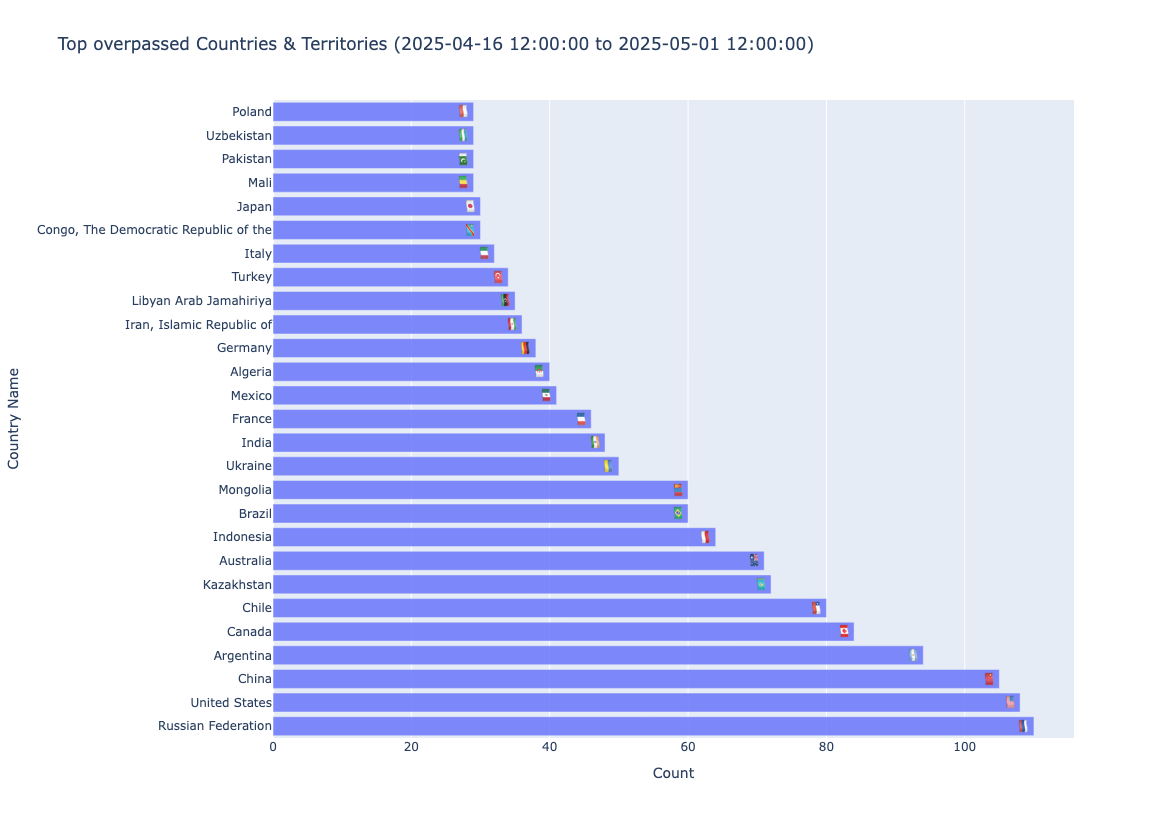
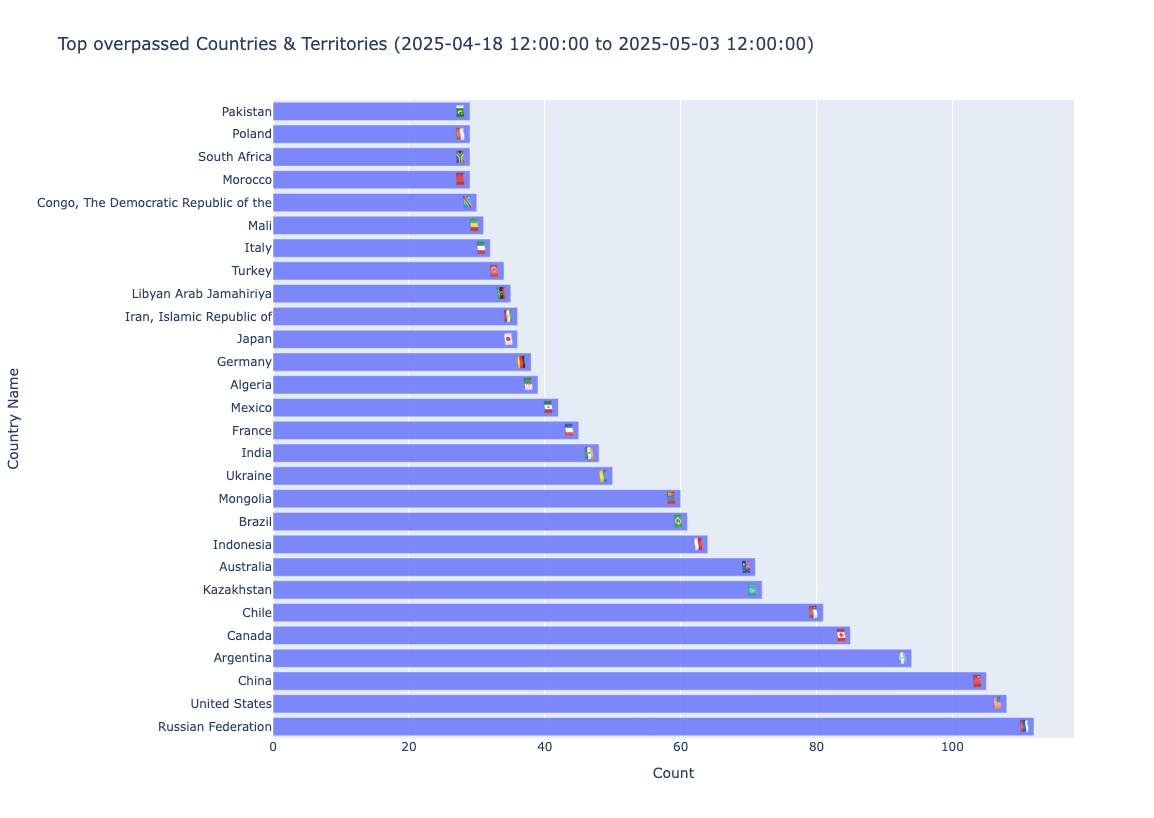
New figures and comments

Changed region(s): [[0.0312, 0.1222, 0.9047, 0.9169]]

diff --git a/year2025/poster/README.md b/year2025/poster/README.md
@@ -51,7 +51,7 @@ passes over places between latitudes 52 degrees south and
 52 degrees north at different times of the day. 
 It is possible to know the future planar position of ISS. 
 We write a standalone Python application that determines such 
-future positions (over a 14-day period) and performs data analytics. 
+future positions (over a 15-day period) and performs data analytics. 
 The tool also focuses on any individual ISS orbit to gather weather 
 conditions along ISS’ path and perform various visualizations.
 This application can complement the NASA’s Spot the station initiative and can serve as an educational tool.
@@ -82,8 +82,8 @@ to obtain future ISS positions and do various data manipulations and visualizati
 
 ```mermaid
 flowchart TB
-    A[Do web scraping to extract future ISS positions: every 4 minutes over 14 days] --> B[Convert x/y positions into latitudes/longitudes]
-    B --> C[Identify orbits and time interpolate every 10 seconds on each orbit]
+    A[Do web scraping to extract future ISS positions (ephemeris): every 4 minutes over 15 days] --> B[Convert x/y positions into latitudes/longitudes]
+    B --> C[Identify orbits and time interpolate every 5 seconds on each orbit]
     C --> D[Determine country name of each location]
     D --> F[Perform data analytics]
     F --> G[Select a random orbit: do web scraping to get weather data and visualization.]
@@ -91,30 +91,17 @@ flowchart TB
 
 It takes several minutes to perform the entire workflow.
 There are two main time consumming tasks:
-1. __Creating locations at 10-second time intervals__:
+1. __Creating locations at 5-second time intervals__:
    The original futures locations have a 4-minute interval. 
    At such a resolution, it is impossible to perform our desired analysis.
-   We time interpolate the entire dataset (over 14 days) so that the ISS
-   positions are every 10 seconds (the tool allows to set any number of seconds).
+   We time interpolate the entire dataset (over 15 days) so that the ISS
+   positions are every 5 seconds (the tool allows to set any number of seconds).
 2. __Gathering of weather forecast data along an orbit__:
    The operation is done one location at the time. 
    It involves not only web scraping of hourly forecasts but also time interpolation.
 
-To reduce the calculation time, we have an option to select
-a date range so that we do not have to use the entire 14-day dataset
-for time interpolation.
 
-> [!NOTE]  
-> We can even go a little further by introducing parallelism in the workflow.
-> The time interpolation is done one orbit at the time and each orbit is independent from another. We can distribute the time interpolation tasks across cores.
-> Similarly, we also distribute the gathering of weather data since we can independently process on location at the time.
 
-> [!NOTE]
-> A question that may arise is why did we select 10 seconds for time interpolation.
-> Why not 30, 20, 15, or 5 senconds for instance?
-> ISS moves very fast. The original dataset captures ISS' position every 4 minutes.
-> With such a time interval, we could not identify the most the countries overpassed.
-> We ran several experiments to determine the most appropriate resolution and to find a compromise in the computational time. With a finer resolution, we get better identification but the analysis takes longer. Our initial target was using 5 seconds but we ended up with 10 seconds to get results faster.
 
 ## Data analytics
 
@@ -122,13 +109,50 @@ After gathering the data (on future positions) for a given date range,
 we want to determine the number of ISS orbits, 
 the number of countries visited, the countries most overpassed, etc.
 
-From __April 16, 2025__ (at 12:00 pm) till __May 1, 2025__ (at 12:00 pm), ISS will:
+From __April 18, 2025__ (at 12:00 pm) till __May 3, 2025__ (at 12:00 pm), ISS will:
 - Have 218 orbits.
-- Overpass 169 countries or territories.
-- Fly over Russia, the United States and China 110, 108 and 105 times, respectively.
+- Overpass 174 countries or territories.
+- Fly over Russia, the United States and China 112, 108 and 105 times, respectively.
 
 > [!NOTE]  
 > We are using here the future tense because we are dealing here with future positions of ISS.
+
+A question that may arise is why did we select 5 seconds for time interpolation.
+Why not use 30, 25, 20, 15, or 10 senconds for instance?
+ISS moves very fast. The original dataset captures ISS' position every 4 minutes
+(about 5763 data points and 218 orbits for the 15-day period).
+With such a time interval, we could not identify most of the countries overpassed.
+We ran several experiments to determine how the frequency affects the 
+the identification of the countries overpassed and the computational times
+(to perform interpolations and fetching the weather data).
+We record the average number od data points per orbit, the total number of
+countries visited, the time it took to do time interpolations and the
+time spent gathering weather data as function of the frequency.
+The table below summarizes the results.
+
+| Frequency (s) | # locations/orbit | Countries overpassed | Interpolation time (s) | Gathering weather data time (s) |
+| --- | --- | --- | --- | --- |
+| 30  | 190 | 157 | 3.00 | 146.17 |
+| 25  | 229 | 159 | 3.58 | 169.19 |
+| 20  | 285 | 162 | 4.56 | 200.59 |
+| 15  | 380 | 161 | 5.38 | 279.30 |
+| 10  | 570 | 168 | 7.44 | 409.64 |
+|  5  | 1141 | 174 |13.47 | 816.96 |
+
+We observe that as we reduce the frequency, we manipulate more data points, 
+we identify more countries, and we need more time to do the operations.
+It is clear that the gathering the weather data is the most time consuming task.
+It is done one location at the time. We web scrape a remote page to extract 
+three-day forecast and perform interpolation at the desired time.
+This process was done serially. 
+Since all the locations are independent from each other, we can speed up 
+data gathering task by distributing it across cores.
+
+> [!NOTE]  
+> Before introducing parallel computations, we added an option to select
+> a date range so that we do not have to use the entire 15-day dataset.
+> This option allws us to reduce the time it takes time interpolate the orbits.
+
 
 
 ![fig_frequency](images/fig_scatterplot_frequency.png "Percentage of countries overpassed by ISS at a given frequency.")
